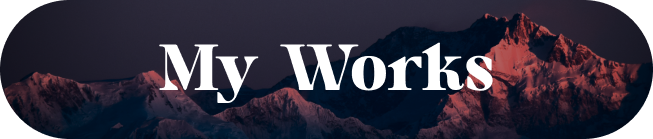
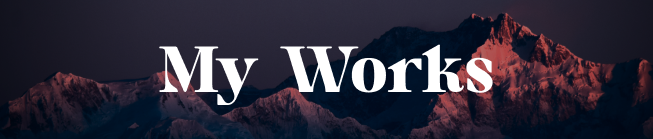
my works border radius changed

diff --git a/index.html b/index.html
@@ -30,6 +30,7 @@
   <meta name="twitter:description"
     content="Explore the world of captivating videography, expert cinematography, and masterful video editing at Marizonx. From commercial productions to personal projects, our portfolio showcases our creative vision. Contact us to bring your cinematic vision to life.">
   <meta name="twitter:image" content="https://marizonx.com/contents/logo.png">
+  <meta name="viewport" content="width=device-width, initial-scale=1.0">
   <link rel="icon" type="image/x-icon" href="/contents/favicon.ico">
 </head>
 
@@ -46,7 +47,7 @@
         </div>
       </a>
       <button class="nav_toggle" aria-controls="primary-navigation" aria-expanded="false">
-        <img src="contents/Group_1.png" fetchpriority="high" alt="menubar" class="menubar">
+        <img src="contents/manu_barimg.png" fetchpriority="high" alt="menubar" class="menubar">
       </button>
     </nav>
 

diff --git a/style.css b/style.css
@@ -168,6 +168,7 @@ nav span {
     height: auto;
     grid-column: 2 / 3;
     grid-row:1 / auto;
+    border-radius: 20px;
 }
 
 .color_flim_video{
@@ -211,7 +212,7 @@ nav span {
 }
 
 .dj_video{
-    width: 71vw;
+    width: 71.5vw;
     border-radius: 20px;
     grid-column: 2 / 4 ;
     grid-row: 1 / auto; 
@@ -307,4 +308,9 @@ button.nav_toggle{
     cursor: pointer;
 }
 
-
+@media (max-width: 767px){
+    nav{
+        background-color:black ;
+        position: relative;
+    }
+}
